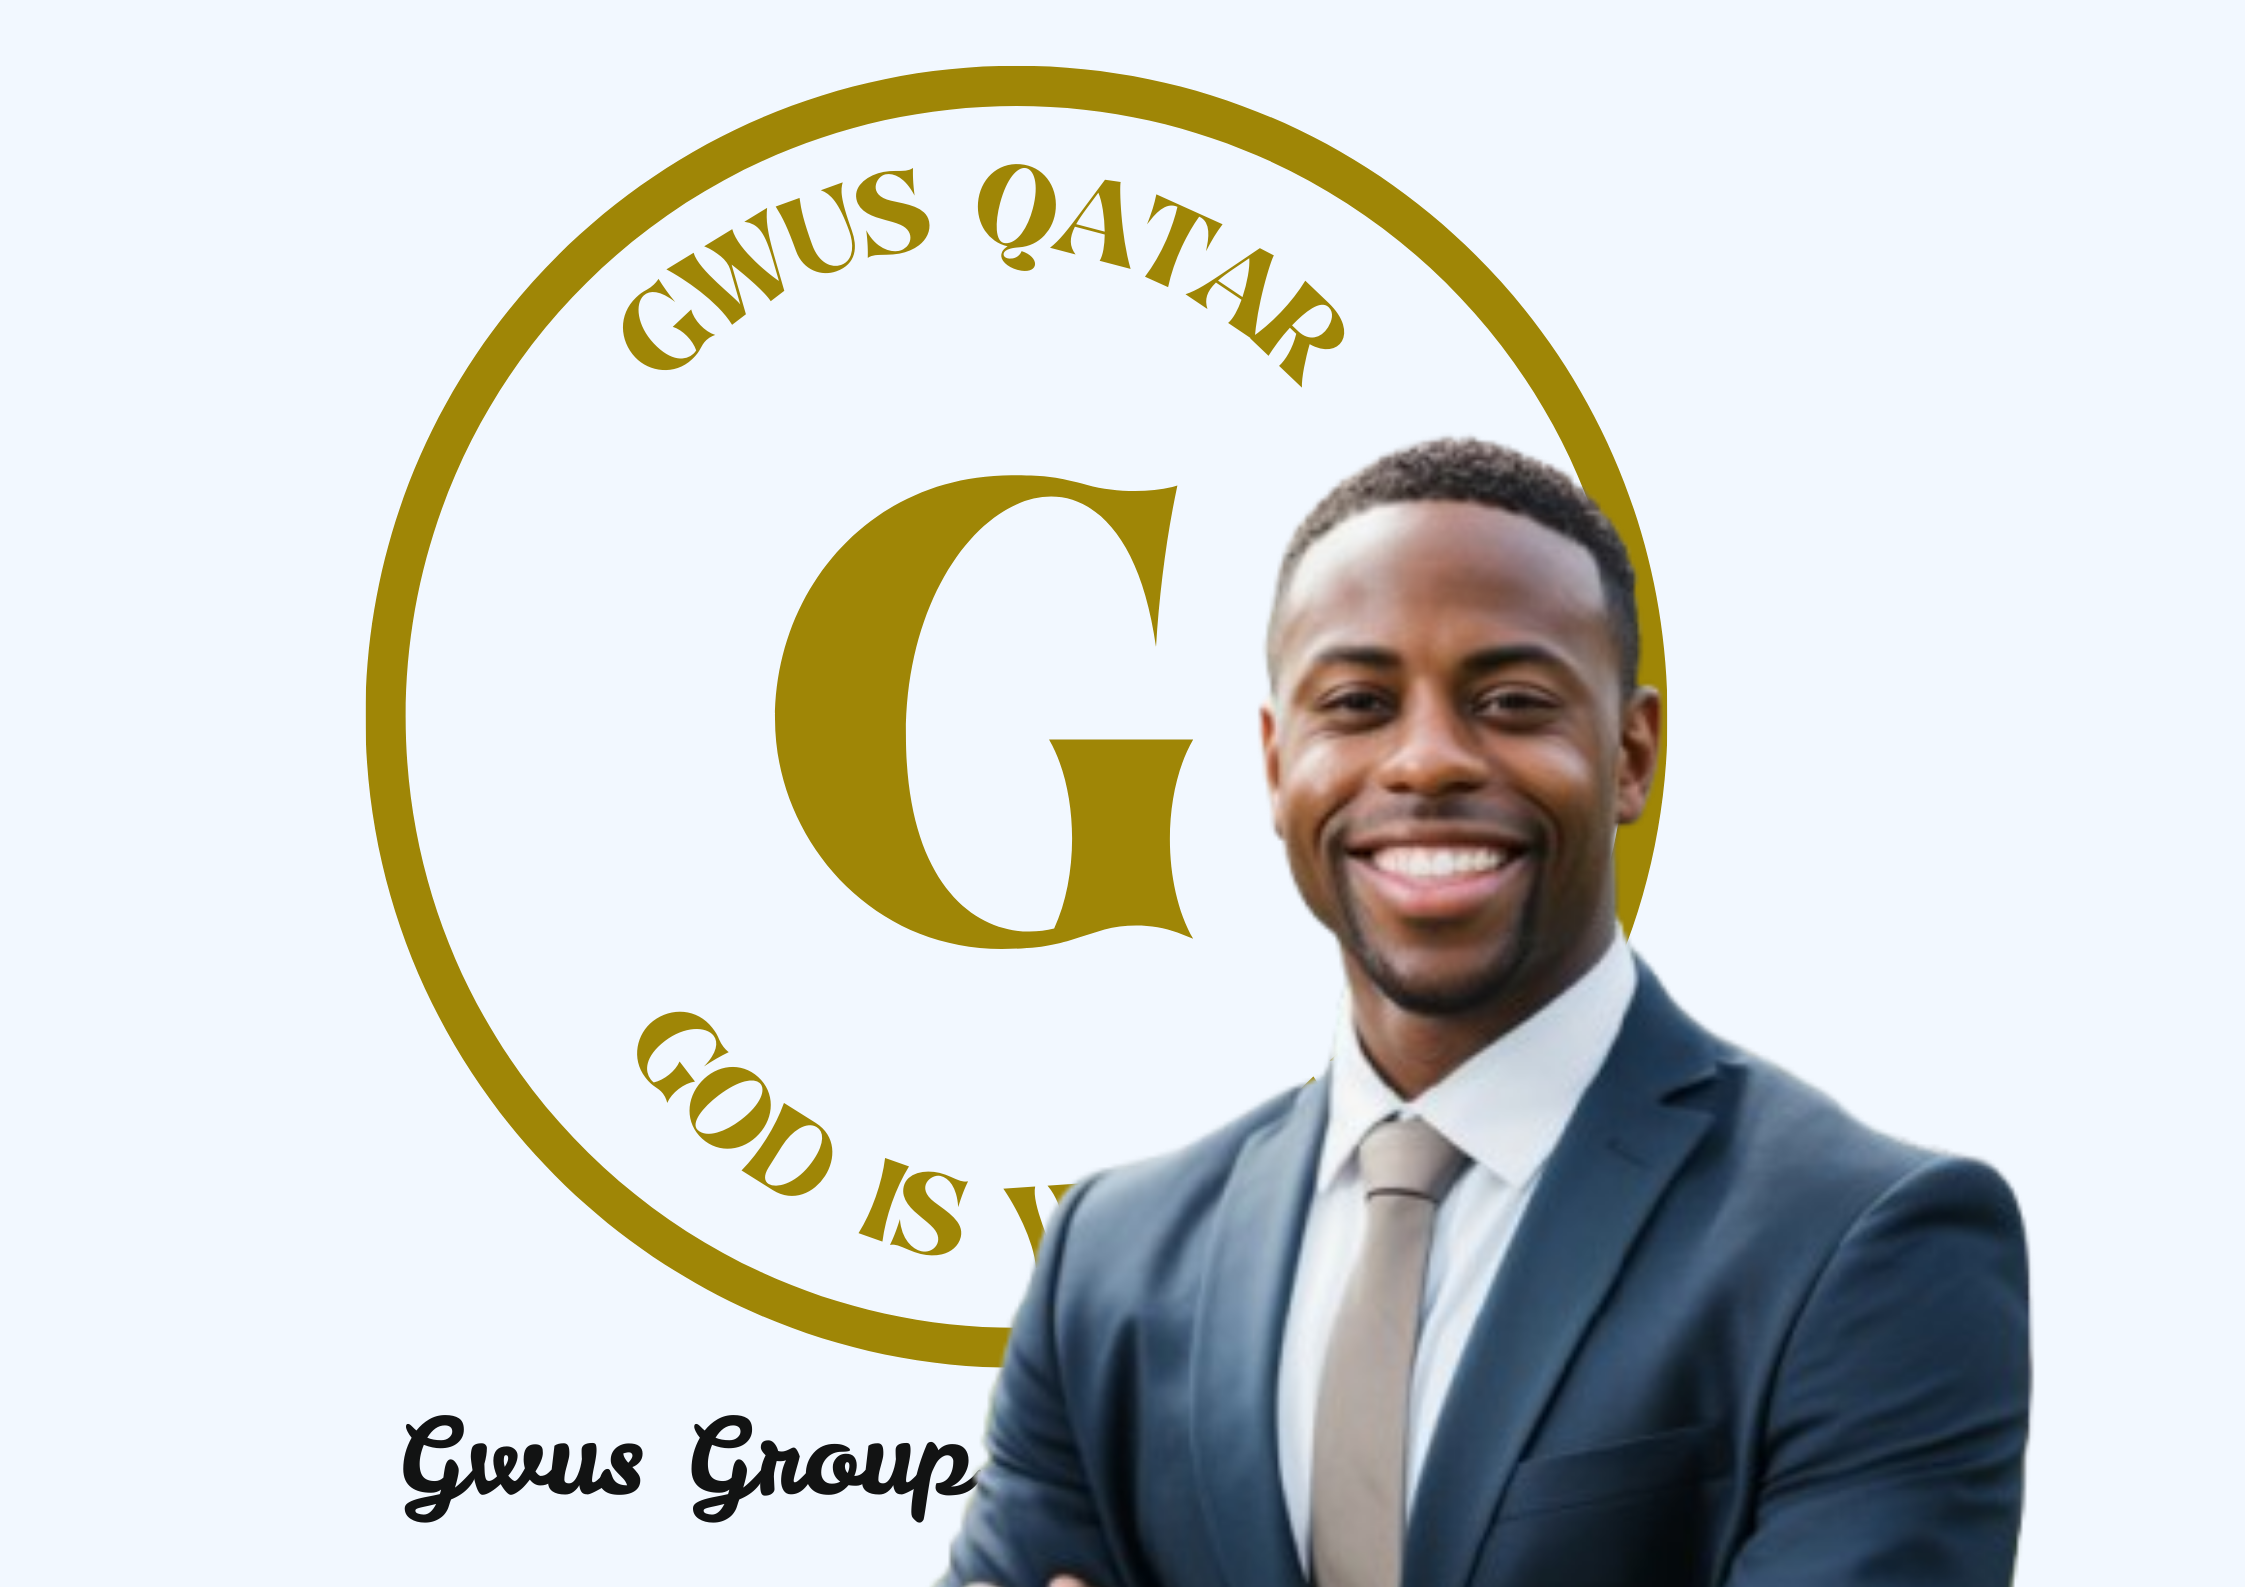
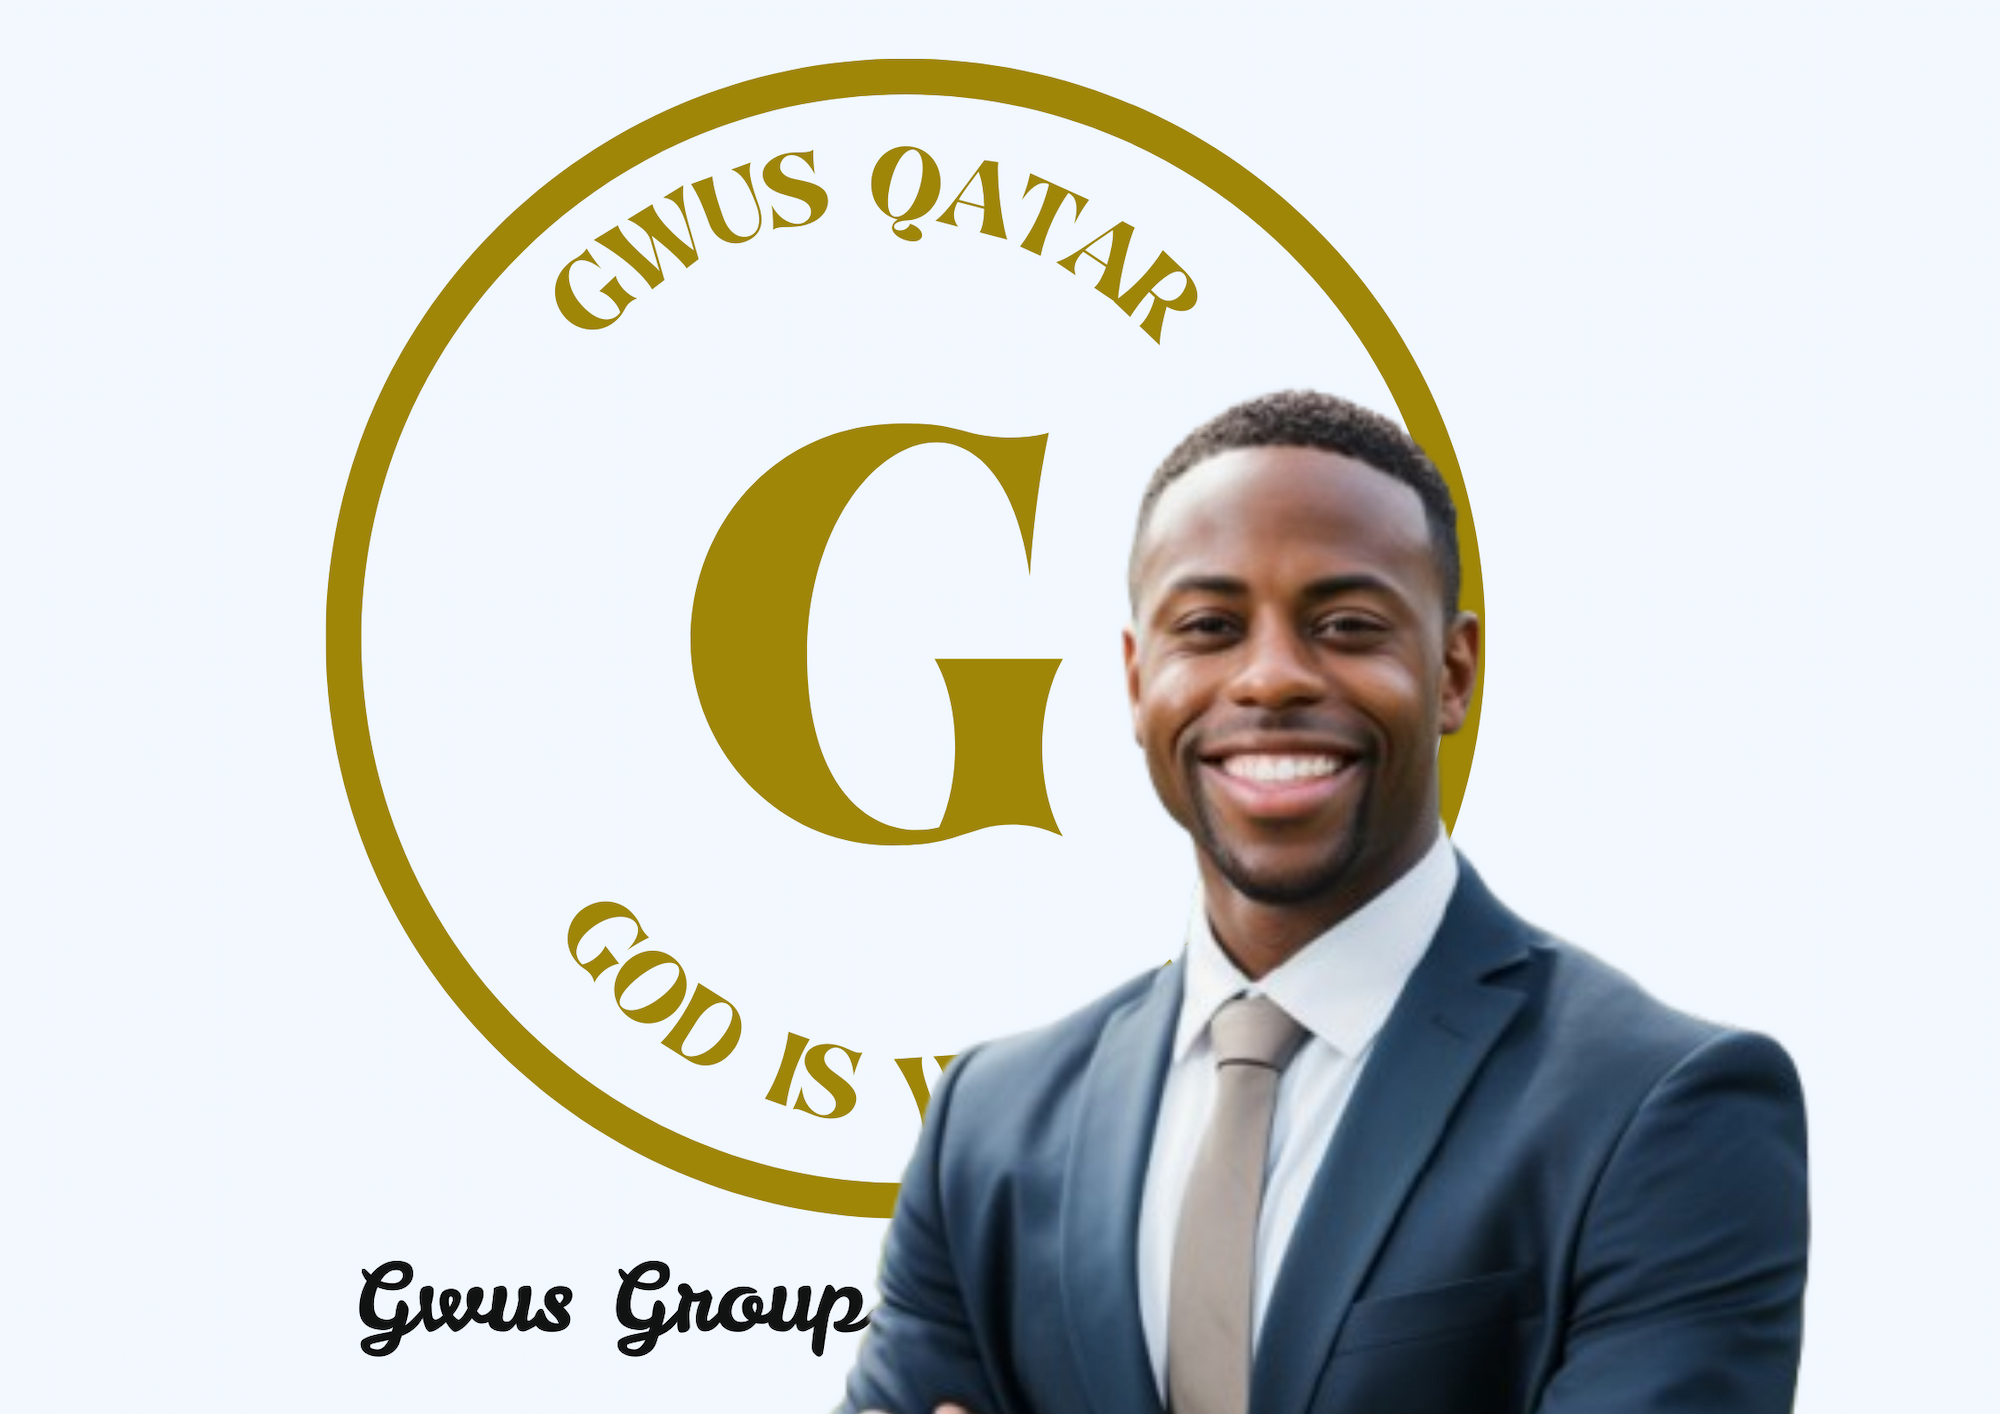
optimized images

diff --git a/src/components/ServiceCard.jsx b/src/components/ServiceCard.jsx
@@ -12,8 +12,9 @@ const ServiceCard = ({ title, text, image, RN }) => {
       <img
         src={image}
         alt="Oil Pump"
-        className="w-40 h-25 object-cover rounded-md max-md:h-20 max-md:w-30"
+        className="w-37 h-25 object-cover rounded-md max-md:h-20 max-md:w-30"
       />
+
       <div className="">
         <h2 className="text-md font-bold mb-2 text-black">
           {title}

diff --git a/src/components/CompanyCard.jsx b/src/components/CompanyCard.jsx
@@ -10,9 +10,6 @@ const CompanyCard = ({ company, frameBg, textBg }) => {
           {company}
         </h2>
       </div>
-      {/* <h2 className="bg-blue-800 p-10">GWUSQATAR LIMITED</h2>
-          <h2 className="bg-amber-700 p-10">GWUSCOBEL LIMITED</h2>
-          <h2 className="bg-gray-800 p-10">GWUS TRADING & CONTRACTING</h2> */}
     </div>
   );
 };
